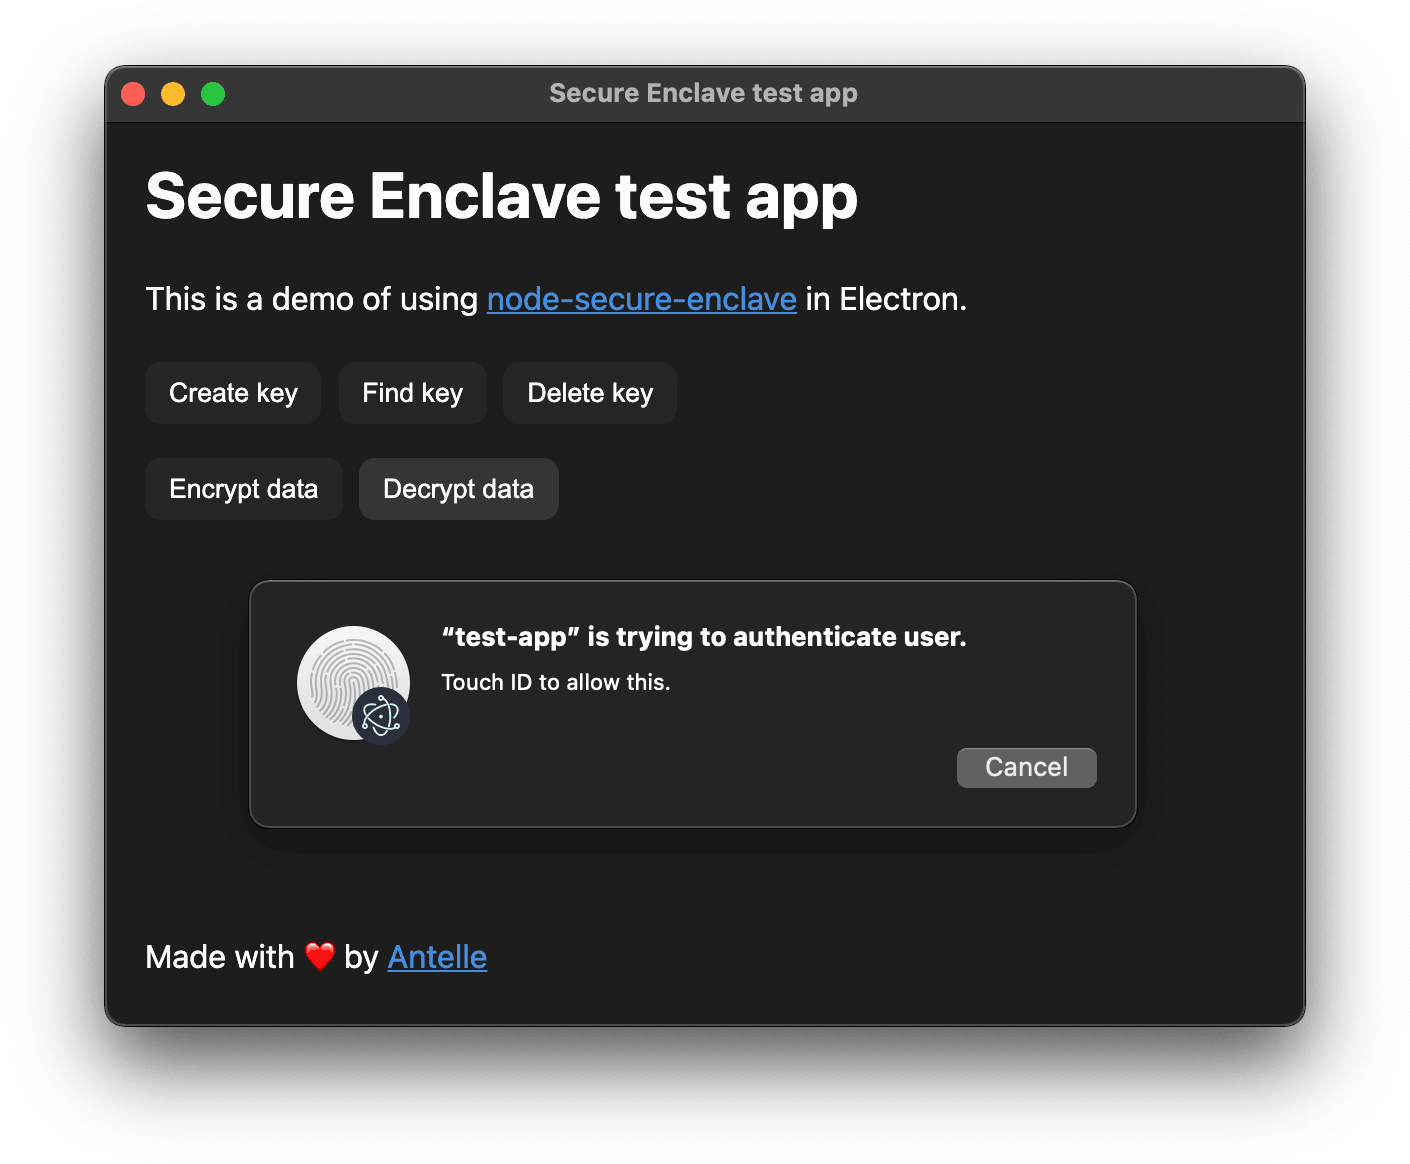
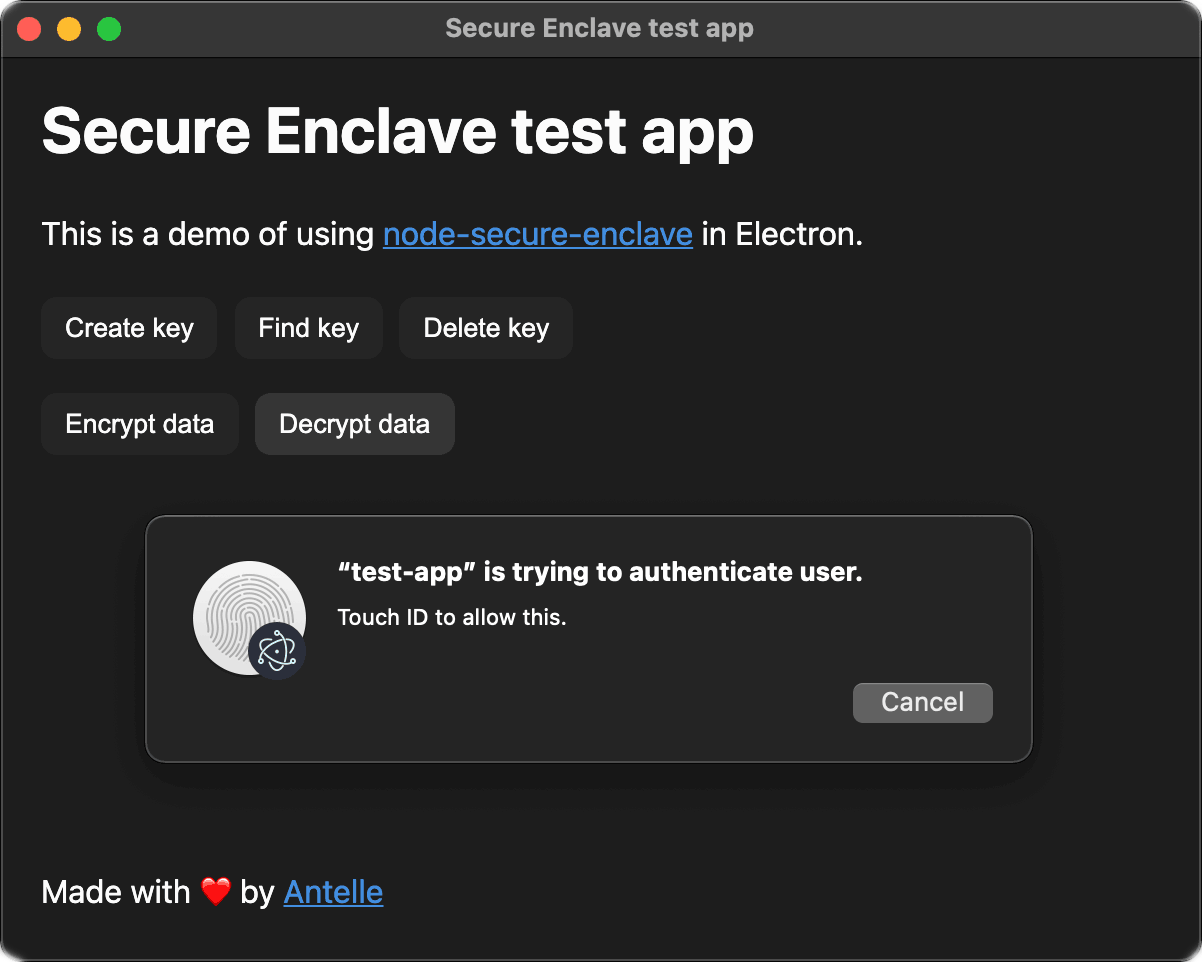
screenshot

diff --git a/README.md b/README.md
@@ -4,7 +4,7 @@ Secure Enclave module for node.js and Electron.
 
 This module provides support for Secure Enclave operations in Electron apps.
 
-<img src="img/test-app.png" width="705" alt="node-secure-enclave screenshot: test app" />
+<img src="img/test-app.png" width="601" alt="node-secure-enclave screenshot: test app" />
 
 <img src="img/touch-bar.png" width="549" alt="node-secure-enclave screenshot: touch bar" />
 
